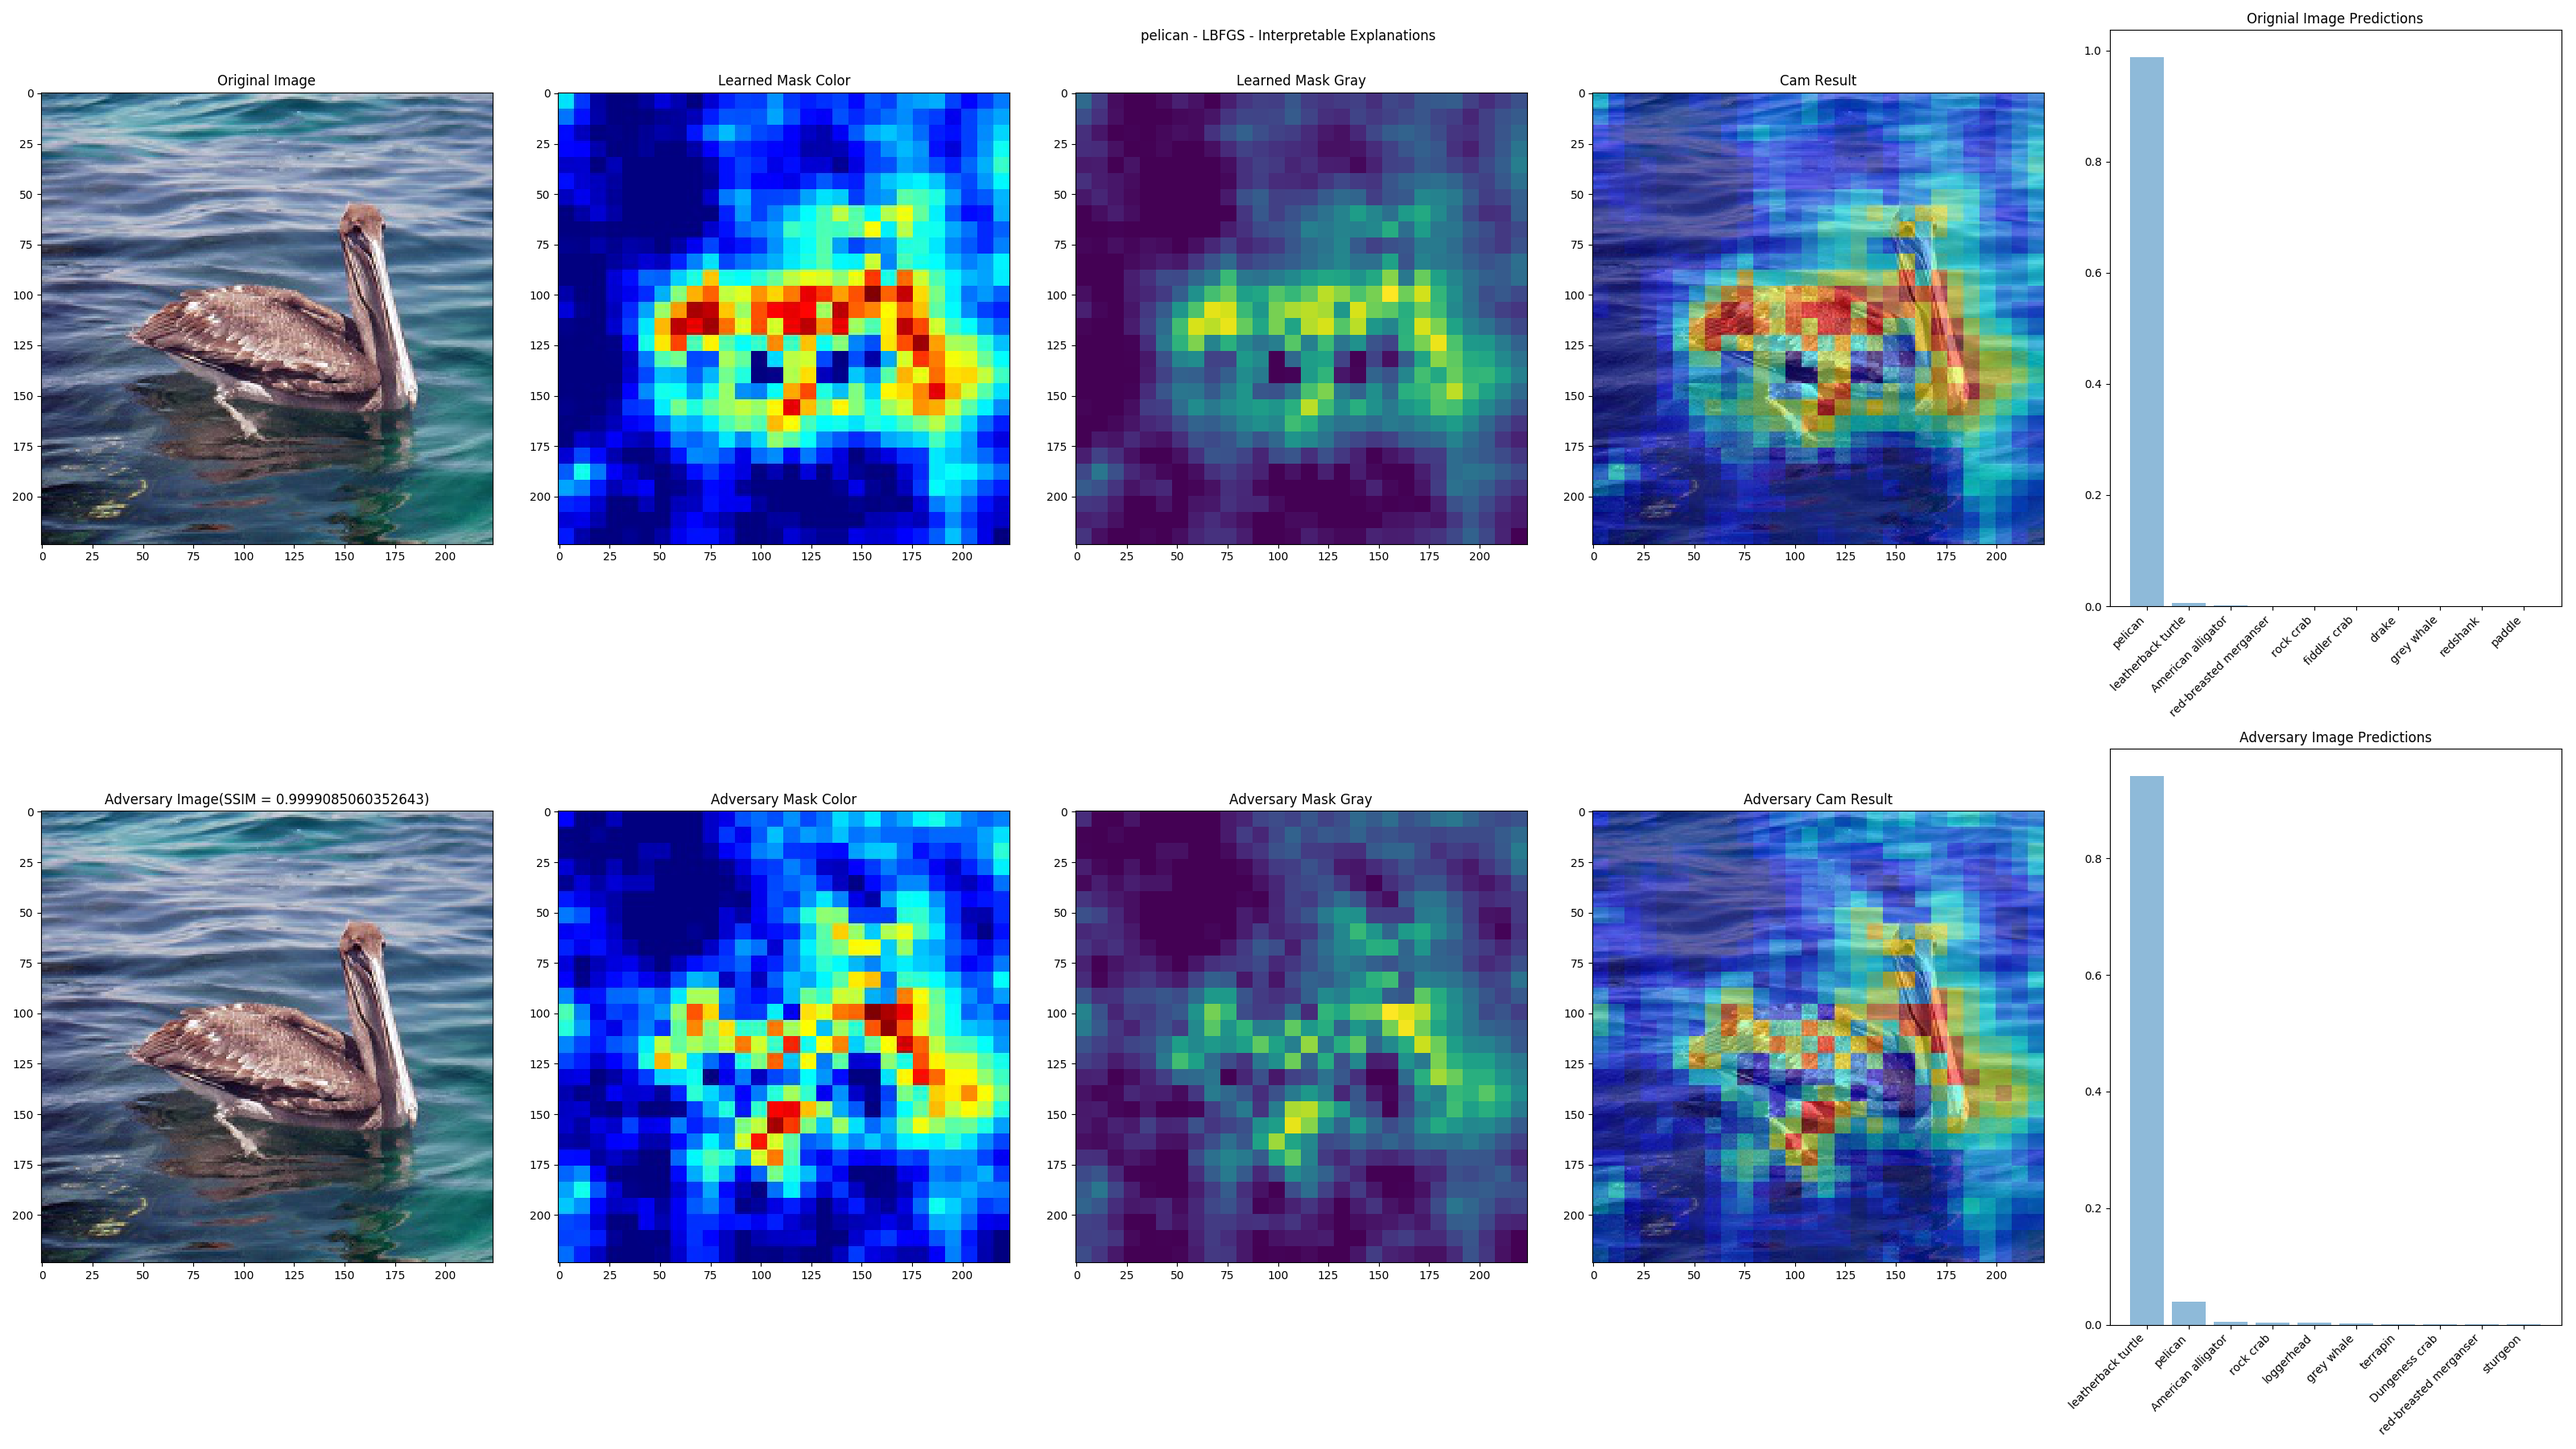
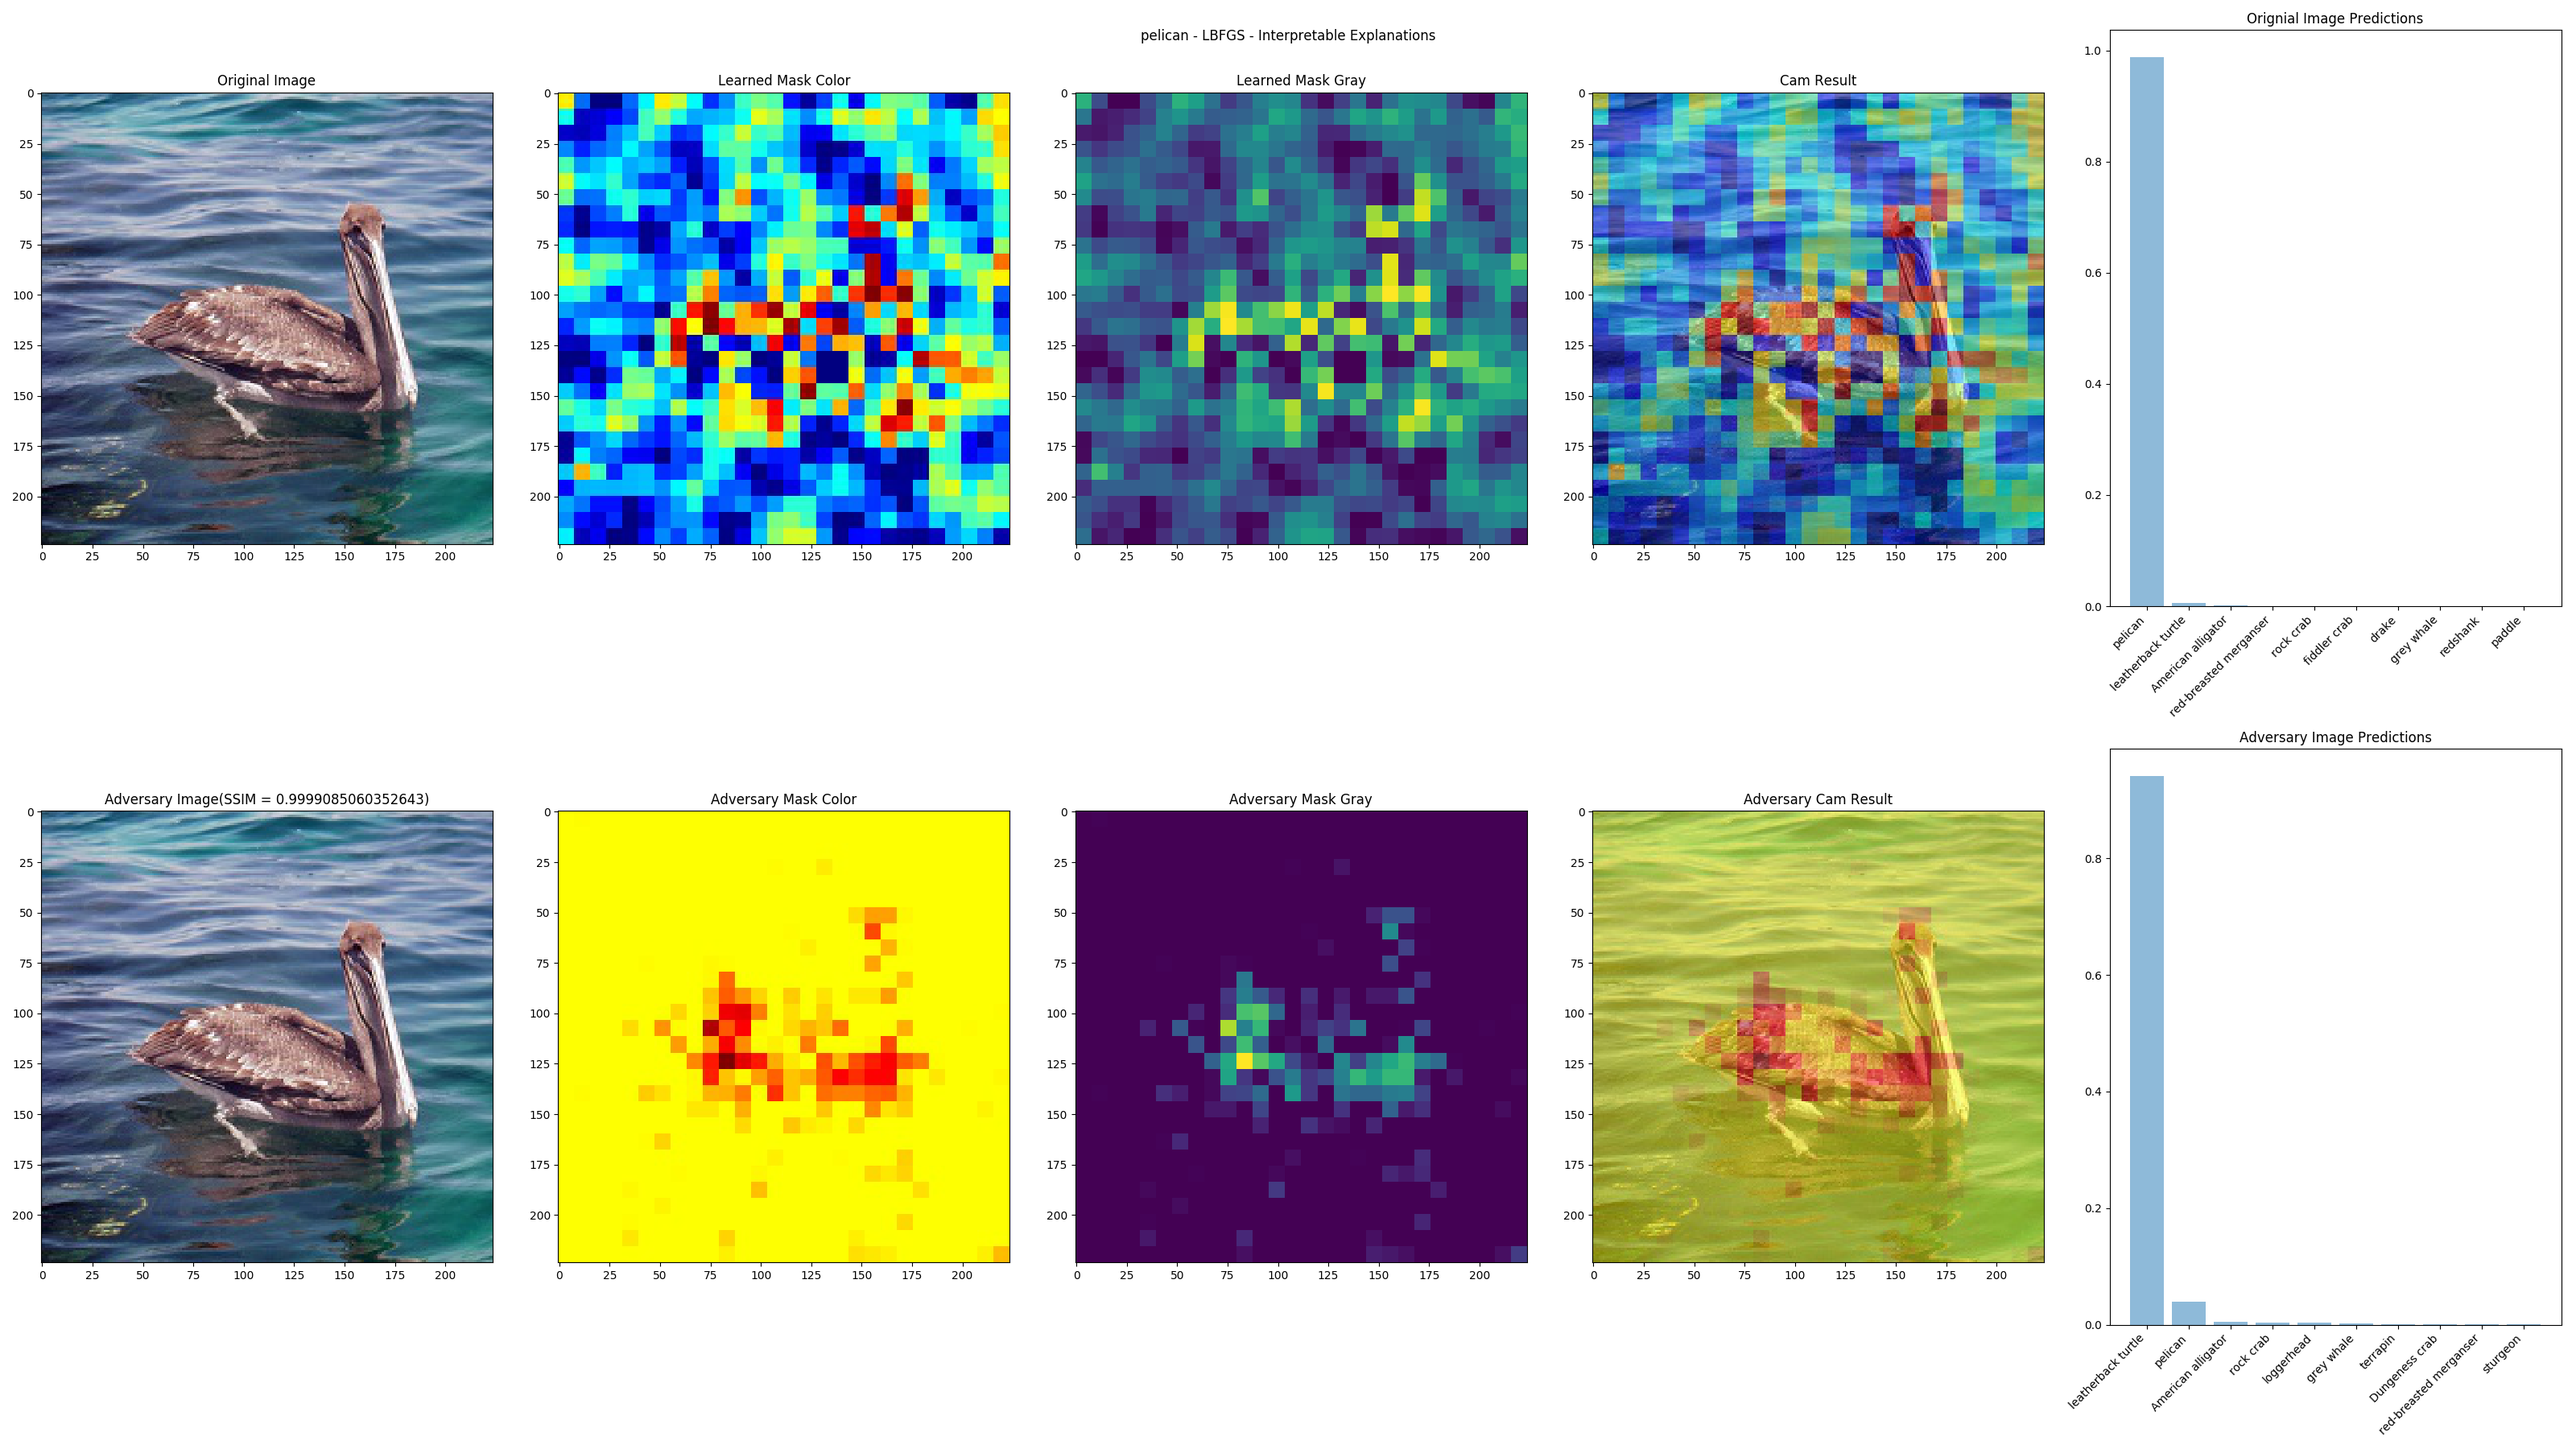
fixing visualization bug with custom VGG19

Changed region(s): [[0.2188, 0.0622, 0.8125, 0.3733], [0.2188, 0.56, 0.8125, 0.8711]]

diff --git a/customization/models/resnet_safe.py b/customization/models/resnet_safe.py
@@ -1,0 +1,159 @@
+import torch
+import torch.nn as nn
+import torch.nn.functional as F
+import math
+
+def conv3x3(in_planes, out_planes, stride=1):
+    """3x3 convolution with padding"""
+    return nn.Conv2d(in_planes, out_planes, kernel_size=3, stride=stride,
+                     padding=1, bias=False)
+
+
+class BasicBlock(nn.Module):
+    expansion = 1
+
+    def __init__(self, inplanes, planes, stride=1, downsample=None):
+        super(BasicBlock, self).__init__()
+        self.conv1 = conv3x3(inplanes, planes, stride)
+        self.bn1 = nn.BatchNorm2d(planes)
+        self.relu = nn.ReLU(inplace=True)
+        self.conv2 = conv3x3(planes, planes)
+        self.bn2 = nn.BatchNorm2d(planes)
+        self.downsample = downsample
+        self.stride = stride
+
+    def forward(self, x):
+        residual = x
+
+        out = self.conv1(x)
+        out = self.bn1(out)
+        out = self.relu(out)
+        out = self.conv2(out)
+        out = self.bn2(out)
+        if self.downsample is not None:
+            residual = self.downsample(x)
+        out += residual
+        out = self.relu(out)
+
+        return out
+
+
+class Bottleneck(nn.Module):
+    expansion = 4
+
+    def __init__(self, inplanes, planes, stride=1, downsample=None):
+        super(Bottleneck, self).__init__()
+        self.conv1 = nn.Conv2d(inplanes, planes, kernel_size=1, bias=False)
+        self.bn1 = nn.BatchNorm2d(planes)
+        self.conv2 = nn.Conv2d(planes, planes, kernel_size=3, stride=stride,
+                               padding=1, bias=False)
+        self.bn2 = nn.BatchNorm2d(planes)
+        self.conv3 = nn.Conv2d(planes, planes * self.expansion, kernel_size=1, bias=False)
+        self.bn3 = nn.BatchNorm2d(planes * self.expansion)
+        self.relu = nn.ReLU(inplace=True)
+        self.downsample = downsample
+        self.stride = stride
+
+    def forward(self, x):
+        residual = x
+
+        out = self.conv1(x)
+        out = self.bn1(out)
+        out = self.relu(out)
+
+        out = self.conv2(out)
+        out = self.bn2(out)
+        out = self.relu(out)
+
+        out = self.conv3(out)
+        out = self.bn3(out)
+
+        if self.downsample is not None:
+            residual = self.downsample(x)
+
+        out += residual
+        out = self.relu(out)
+
+        return out
+
+
+class ResNet(nn.Module):
+
+    def __init__(self, block, layers, num_classes=10):
+        self.inplanes = 64
+        super(ResNet, self).__init__()
+        self.conv1 = nn.Conv2d(3, 64, kernel_size=3, stride=1, padding=1, bias=False)
+        self.bn1 = nn.BatchNorm2d(64)
+        self.relu = nn.ReLU(inplace=True)
+        #self.maxpool = nn.MaxPool2d(kernel_size=3, stride=2, padding=1)
+        self.layer1 = self._make_layer(block, 64, layers[0])
+        self.layer2 = self._make_layer(block, 128, layers[1], stride=2)
+        self.layer3 = self._make_layer(block, 256, layers[2], stride=2)
+        self.layer4 = self._make_layer(block, 512, layers[3], stride=2)
+        self.avgpool = nn.AvgPool2d(4)
+        self.fc = nn.Linear(512 * block.expansion, num_classes)
+
+        for m in self.modules():
+            if isinstance(m, nn.Conv2d):
+                n = m.kernel_size[0] * m.kernel_size[1] * m.out_channels
+                m.weight.data.normal_(0, math.sqrt(2. / n))
+            elif isinstance(m, nn.BatchNorm2d):
+                m.weight.data.fill_(1)
+                m.bias.data.zero_()
+
+    def _make_layer(self, block, planes, blocks, stride=1):
+        downsample = None
+        if stride != 1 or self.inplanes != planes * block.expansion:
+            downsample = nn.Sequential(
+                nn.Conv2d(self.inplanes, planes * block.expansion,
+                          kernel_size=1, stride=stride, bias=False),
+                nn.BatchNorm2d(planes * block.expansion),
+            )
+
+        layers = []
+        layers.append(block(self.inplanes, planes, stride, downsample))
+        self.inplanes = planes * block.expansion
+        for i in range(1, blocks):
+            layers.append(block(self.inplanes, planes))
+
+        return nn.Sequential(*layers)
+
+    def forward(self, x):
+        x = self.conv1(x)
+        x = self.bn1(x)
+        x = self.relu(x)
+        x = self.maxpool(x)
+
+        x = self.layer1(x)
+        x = self.layer2(x)
+        x = self.layer3(x)
+        x = self.layer4(x)
+        x = self.avgpool(x)
+        x = x.view(x.size(0), -1)
+        x = self.fc(x)
+
+        return x
+
+
+def ResNet18():
+    return ResNet(BasicBlock, [2,2,2,2])
+
+def ResNet34():
+    return ResNet(BasicBlock, [3,4,6,3])
+
+def ResNet50():
+    return ResNet(Bottleneck, [3,4,6,3])
+
+def ResNet101():
+    return ResNet(Bottleneck, [3,4,23,3])
+
+def ResNet152():
+    return ResNet(Bottleneck, [3,8,36,3])
+
+
+def test():
+    net = ResNet18()
+    y = net(torch.randn(1,3,32,32))
+    print(y.size())
+
+# test()

diff --git a/visualization/guided_backprop.py b/visualization/guided_backprop.py
@@ -17,7 +17,7 @@ class GuidedBackprop():
     """
        Produces gradients generated with guided back propagation from the given image
     """
-    def __init__(self, model,network,structure='ResNet50'):
+    def __init__(self, model,network,structure=''):
         self.network = network
         self.structure = structure
         self.model = model
@@ -56,26 +56,27 @@ class GuidedBackprop():
             if isinstance(module, ReLU):
                 return (torch.clamp(grad_in[0], min=0.0),)
         # Loop through layers, hook up ReLUs with relu_hook_function
-
         if self.network == "ResNet50":
-
             for module in list(self.model.children())[:-1]:
                 if isinstance(module,ReLU):
                     module.register_backward_hook(relu_hook_function)
+                    print(module)
+
         elif self.network == 'Custom':
             if self.structure == 'ResNet50':
                 for module in list(self.model.children())[:-1]:
                     if isinstance(module,ReLU):
                         module.register_backward_hook(relu_hook_function)
+
             elif self.structure == 'VGG19':
                 for pos, module in self.model.features._modules.items():
                     if isinstance(module, ReLU):
                         module.register_backward_hook(relu_hook_function)
         else:
-            print(self.network)
             for pos, module in self.model.features._modules.items():
                 if isinstance(module, ReLU):
                     module.register_backward_hook(relu_hook_function)
+
 
     def generate_gradients(self, input_image, target_class):
         # Forward pass
@@ -89,6 +90,7 @@ class GuidedBackprop():
         model_output.backward(gradient=one_hot_output)
         # Convert Pytorch variable to numpy array
         # [0] to get rid of the first channel (1,3,224,224)
+        print(self.gradients.data.numpy().shape)
         gradients_as_arr = self.gradients.data.numpy()[0]
         return gradients_as_arr
 

diff --git a/massRun.py b/massRun.py
@@ -1,17 +1,26 @@
+#!/usr/bin/python
+
 from visualization import *
 from drawPlot import *
 
 attacks = ['FGSM','PGD','DeepFool','Boundary','SinglePixel','SalMap','LBFGS','RPGD']
 networks = ['VGG19','AlexNet','ResNet50','Custom']
-visualmethods = ['GBP','VanillaBP','SmoothGrad','Explain']#'GradCam','GGradCam',
+visualmethods = ['VanillaBP','SmoothGrad','Explain']#'GradCam','GGradCam','GBP',
 trained = True
 target_example = range(0, 6)
 
-for m in visualmethods:
-    print('Now comparing attacks for: ',m)
-    compareAttacks(m, 'ResNet50', 4, training='', structure='')
+if __name__ == '__main__':
+    #runGradCam('ResNet50')
+    runGradCam('Custom',structure = 'VGG19')
 
-#compareVisualizations(False,'FGSM','AlexNet',6,training='', structure='')
+
+#runExplain2('ResNet50',target_example=4,iters=20)
+#runGradCam2('ResNet50',target_example=5,attack_type='DeepFool')
+#for m in visualmethods:
+#    print('Now comparing attacks for: ',m)
+#compareAttacks('Explain', 'ResNet50', 4, training='', structure='')
+
+#compareVisualizations('FGSM','AlexNet',6,training='', structure='')
 #compareNetworks('FGSM','GradCam',4)
 
 # Compatible with all networks:

diff --git a/visualization/gradcam.py b/visualization/gradcam.py
@@ -15,7 +15,7 @@ class CamExtractor():
     """
         Extracts cam features from the model
     """
-    def __init__(self, model, target_layer,network,structure = 'ResNet50'):
+    def __init__(self, model, target_layer,network,structure):
         self.network = network
         self.structure = structure
         self.model = model
@@ -86,7 +86,7 @@ class GradCam():
     """
         Produces class activation map
     """
-    def __init__(self, model, target_layer,network,structure = 'ResNet50'):
+    def __init__(self, model, target_layer,network,structure):
         self.network = network
         self.structure = structure
         self.model = model
@@ -107,6 +107,7 @@ class GradCam():
         one_hot_output[0][target_class] = 1
 
         # Zero grads
+
         if self.network == "ResNet50":
             for module in list(self.model.children())[:-1]:
                 module.zero_grad()

diff --git a/visualization/explain.py b/visualization/explain.py
@@ -277,7 +277,7 @@ def runExplain(choose_network='AlexNet',
     (original_img, _, target_class, file_name_to_export, pretrained_model) = get_params(target_example,
                                                                                         choose_network, isTrained,
                                                                                         training,structure)
-    print(original_img.shape)
+
     attack1 = attack(choose_network,attack_type, pretrained_model, original_img, file_name_to_export, target_class)
     adversarialpic, adversarial,advers_class, orig_pred, adver_pred, diff = attack1.getstuff()
 

diff --git a/visualization/guided_gradcam.py b/visualization/guided_gradcam.py
@@ -56,9 +56,10 @@ def runGGradCam(choose_network = 'AlexNet',
 
     cam = gcv2.generate_cam(prep_img, target_class)
     print('Grad cam completed')
+    print('cam shape:',cam.shape)
 
     # Guided backprop
-    GBP = GuidedBackprop(pretrained_model,choose_network)
+    GBP = GuidedBackprop(pretrained_model,choose_network,structure)
     # Get gradients
     guided_grads = GBP.generate_gradients(prep_img, target_class)
     print('Guided backpropagation completed')

diff --git a/customization/models/vgg.py b/customization/models/vgg.py
@@ -38,10 +38,4 @@ class VGG(nn.Module):
         return nn.Sequential(*layers)
 
 
-def test():
-    net = VGG('VGG19')
-    j = 0
-    for i in list(net.children()):
-        print(j,":",i)
-
 # test()
